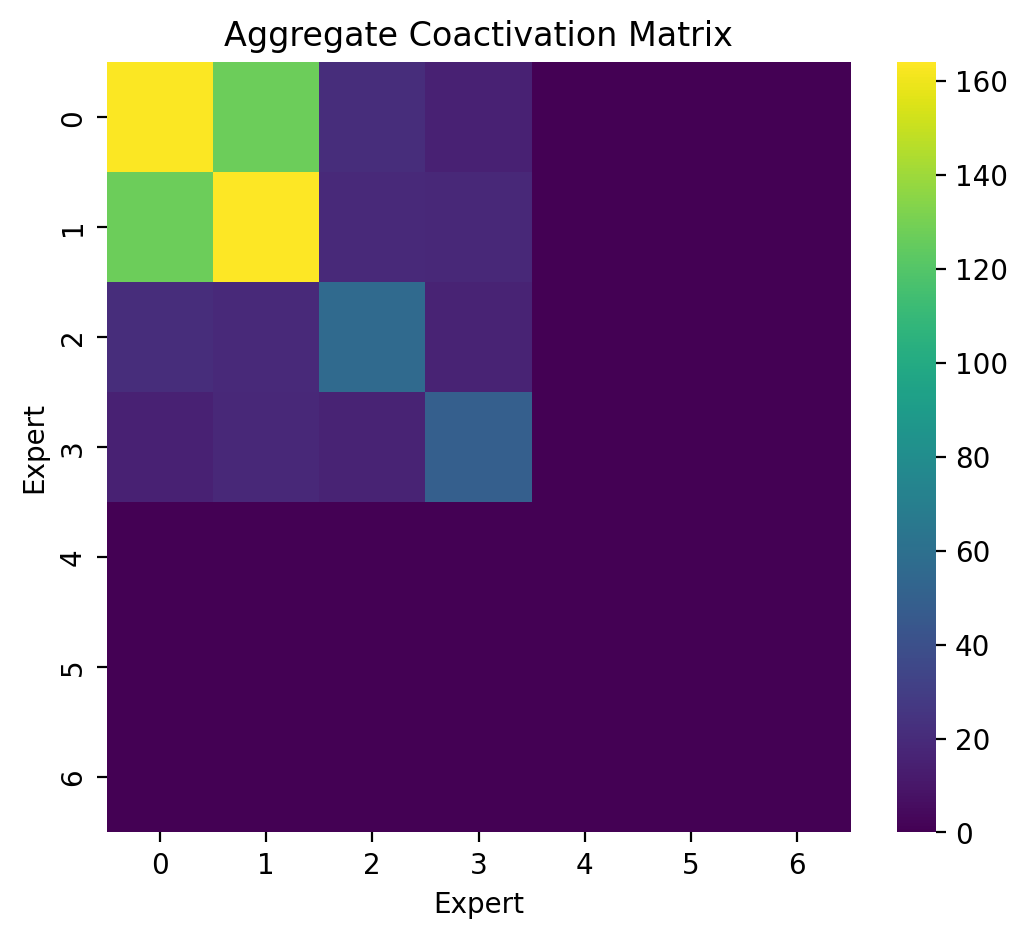
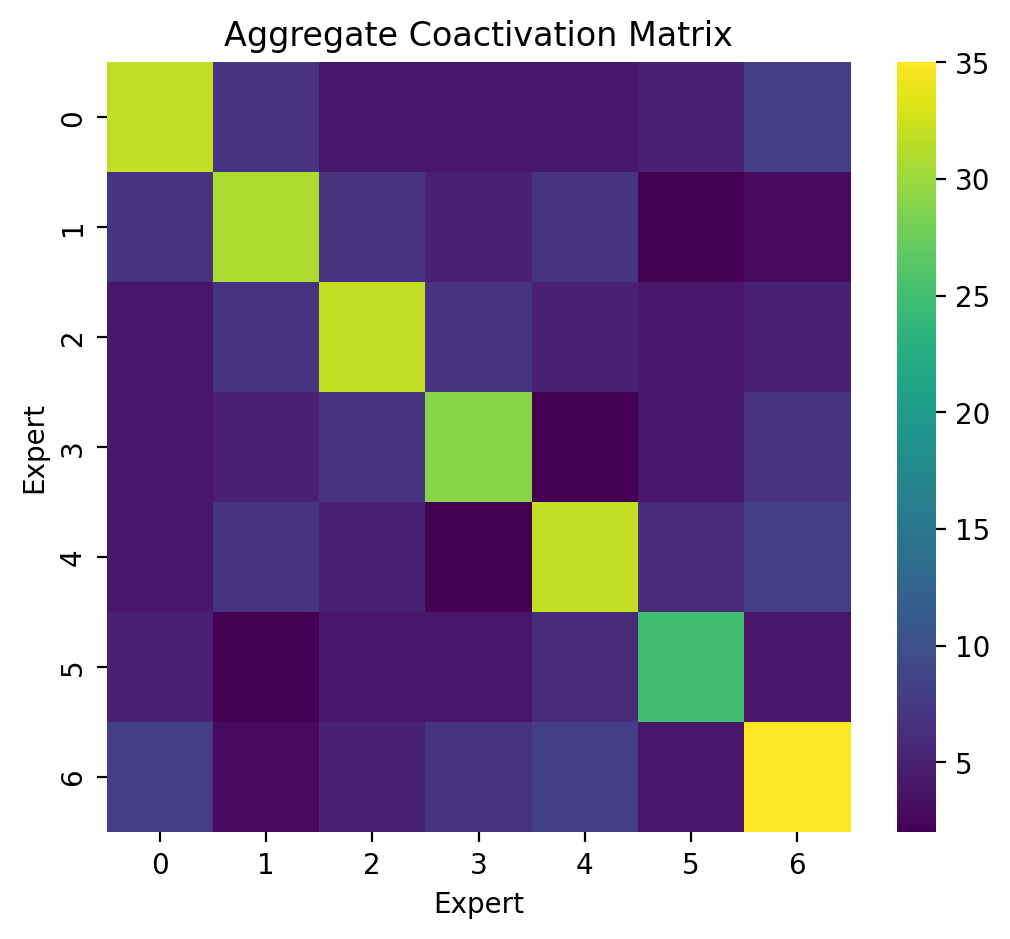
some cleaning

diff --git a/scripts/flex_olmo/utils/evaluate_fake_flex_olmo_dataset.py b/scripts/flex_olmo/utils/evaluate_fake_flex_olmo_dataset.py
@@ -24,10 +24,9 @@ import seaborn as sns
 
 from fake_test_models.fake_flex_olmo import FakeFlexOlmoModel
 from flex_moe_toolkit.core.routing_diagnostics import compute_all_metrics, compute_offdiagonal_ratio
-from flex_moe_toolkit.pipelines.flex_olmo import analyze_flex_olmo_routing, restricted_expert_mode
+from flex_moe_toolkit.pipelines.flex_olmo import analyze_flex_olmo_routing
 from flex_moe_toolkit.prev_analysis.plots import (
     plot_expert_combination_upset,
-    plot_run_comparison_upset,
 )
 from flex_moe_toolkit.utils.jsonl import write_jsonl
 from flex_moe_toolkit.utils.router_activity import (
@@ -44,15 +43,8 @@ EVAL_RECORDS_PATH = OUTPUT_DIR / "fake_eval_router_activity.jsonl"
 SUMMARY_PATH = OUTPUT_DIR / "fake_eval_summary.jsonl"
 ROUTING_ANALYSIS_PATH = OUTPUT_DIR / "routing_analysis.jsonl"
 UPSET_PATH = OUTPUT_DIR / "fake_eval_expert_upset.png"
-UPSET_2_PATH = OUTPUT_DIR / "fake_eval_expert_upset_top2_active.png"
-UPSET_4_PATH = OUTPUT_DIR / "fake_eval_expert_upset_top4_active.png"
 USAGE_PLOT_PATH = OUTPUT_DIR / "routing_usage_bar.png"
 COACTIVATION_PLOT_PATH = OUTPUT_DIR / "routing_coactivation_heatmap.png"
-
-RUN_SPECS = (
-    {"run_label": "top2_active", "active_experts": (0, 1), "top_k": 2},
-    {"run_label": "top4_active", "active_experts": (0, 1, 2, 3), "top_k": 4},
-)
 
 
 def load_jsonl(path):
@@ -67,20 +59,18 @@ def text_to_fake_inputs(text, hidden_size, sequence_length=12):
     return {"input_ids": hidden_states}
 
 
-def score_choice(model, question, choice_text, active_experts, top_k):
+def score_choice(model, question, choice_text, top_k):
     prompt = f"Question: {question}\nChoice: {choice_text}"
     inputs = text_to_fake_inputs(prompt, hidden_size=model.config.hidden_size)
-
-    with restricted_expert_mode(model, allowed_experts=active_experts):
-        outputs = model(**inputs)
-        routing = analyze_flex_olmo_routing(model, inputs, top_k=min(top_k, len(active_experts)))
+    outputs = model(**inputs)
+    routing = analyze_flex_olmo_routing(model, inputs, top_k=top_k)
 
     final_token = outputs.last_hidden_state[:, -1, :]
     score = float(final_token.mean().item())
     return score, routing
 
 
-def evaluate_example(model, example, run_spec):
+def evaluate_example(model, example, top_k):
     choice_runs = []
 
     for choice_idx, choice_text in enumerate(example["choices"]):
@@ -88,8 +78,7 @@ def evaluate_example(model, example, run_spec):
             model=model,
             question=example["question"],
             choice_text=choice_text,
-            active_experts=run_spec["active_experts"],
-            top_k=run_spec["top_k"],
+            top_k=top_k,
         )
         choice_runs.append(
             {
@@ -112,12 +101,13 @@ def evaluate_example(model, example, run_spec):
     layer_combos = flatten_topk_experts(predicted_routing["topk_experts"])
     global_combo = activated_expert_combination(predicted_routing["topk_experts"])
     layer_overlap = layer_iou_summary(layer_combos)
+    token_combination_counts = count_token_level_combinations(predicted_routing["topk_experts"])
 
     return {
         "record_type": "evaluation_example",
-        "run_label": run_spec["run_label"],
-        "available_experts": tuple(run_spec["active_experts"]),
-        "num_available_experts": len(run_spec["active_experts"]),
+        "run_label": "full_routing",
+        "available_experts": tuple(range(model.config.num_experts)),
+        "num_available_experts": model.config.num_experts,
         "example_id": example["id"],
         "benchmark": example["benchmark"],
         "language": example["language"],
@@ -138,6 +128,10 @@ def evaluate_example(model, example, run_spec):
             "coactivation_matrix": batch_metrics["coactivation_matrix"],
             "offdiag_ratio": batch_metrics["offdiag_ratio"],
         },
+        "token_topk_combination_counts": {
+            ",".join(str(expert) for expert in combo): count
+            for combo, count in sorted(token_combination_counts.items())
+        },
         "layer_activated_experts": layer_combos,
         "activated_experts": global_combo,
         "layer_intersection_experts": layer_overlap["layer_intersection_experts"],
@@ -145,6 +139,25 @@ def evaluate_example(model, example, run_spec):
         "pairwise_layer_iou": layer_overlap["pairwise_layer_iou"],
         "mean_layer_iou": layer_overlap["mean_layer_iou"],
     }
+
+
+def count_token_level_combinations(topk_experts):
+    token_counts = Counter()
+
+    for layer in topk_experts:
+        for batch in layer:
+            batch_list = batch.tolist() if hasattr(batch, "tolist") else batch
+            if not isinstance(batch_list, list):
+                batch_list = [batch_list]
+            for token in batch_list:
+                if isinstance(token, list):
+                    experts = token
+                else:
+                    experts = [token]
+                combo = tuple(sorted(int(expert_idx) for expert_idx in experts))
+                token_counts[combo] += 1
+
+    return token_counts
 
 
 def build_summary(records):
@@ -304,11 +317,9 @@ def save_coactivation_heatmap(matrix, path):
 def main():
     examples = load_jsonl(DATASET_PATH)
     model = FakeFlexOlmoModel(num_experts=7)
+    top_k = model.config.num_experts_per_tok
 
-    records = []
-    for run_spec in RUN_SPECS:
-        for example in examples:
-            records.append(evaluate_example(model, example, run_spec))
+    records = [evaluate_example(model, example, top_k=top_k) for example in examples]
 
     summaries, intersection_records = build_summary(records)
     routing_analysis_records, routing_aggregate = aggregate_routing_analysis(records)
@@ -316,28 +327,19 @@ def main():
     write_jsonl(records, EVAL_RECORDS_PATH)
     write_jsonl(summaries, SUMMARY_PATH)
     write_jsonl(routing_analysis_records, ROUTING_ANALYSIS_PATH)
-    by_run = defaultdict(list)
+    aggregate_counter = Counter()
     for record in records:
-        by_run[record["run_label"]].append(record)
+        aggregate_counter.update(
+            {
+                tuple(int(expert) for expert in combo_key.split(",")): count
+                for combo_key, count in record["token_topk_combination_counts"].items()
+            }
+        )
 
     plot_expert_combination_upset(
-        combination_counts=count_combinations(
-            tuple(record["activated_experts"]) for record in by_run["top2_active"]
-        ),
-        path=UPSET_2_PATH,
-        title="Activated Expert Combinations for 2 Active Experts",
-    )
-    plot_expert_combination_upset(
-        combination_counts=count_combinations(
-            tuple(record["activated_experts"]) for record in by_run["top4_active"]
-        ),
-        path=UPSET_4_PATH,
-        title="Activated Expert Combinations for 4 Active Experts",
-    )
-    plot_run_comparison_upset(
-        intersection_records=intersection_records,
+        combination_counts=aggregate_counter,
         path=UPSET_PATH,
-        title="Activated Expert Intersections Across 2 / 4 Active-Expert Runs",
+        title="Token-Level Top-k Expert Combinations Across Full Routing",
     )
     save_usage_bar_plot(routing_aggregate["usage"], USAGE_PLOT_PATH)
     save_coactivation_heatmap(routing_aggregate["coactivation_matrix"], COACTIVATION_PLOT_PATH)
@@ -345,8 +347,7 @@ def main():
     print(f"Wrote {len(records)} evaluation records to {EVAL_RECORDS_PATH}")
     print(f"Wrote {len(summaries)} summary records to {SUMMARY_PATH}")
     print(f"Wrote routing analysis to {ROUTING_ANALYSIS_PATH}")
-    print(f"Saved upset plots to {UPSET_2_PATH} and {UPSET_4_PATH}")
-    print(f"Saved comparison upset plot to {UPSET_PATH}")
+    print(f"Saved token-level top-k upset plot to {UPSET_PATH}")
     print(f"Saved routing plots to {USAGE_PLOT_PATH} and {COACTIVATION_PLOT_PATH}")
 
 
